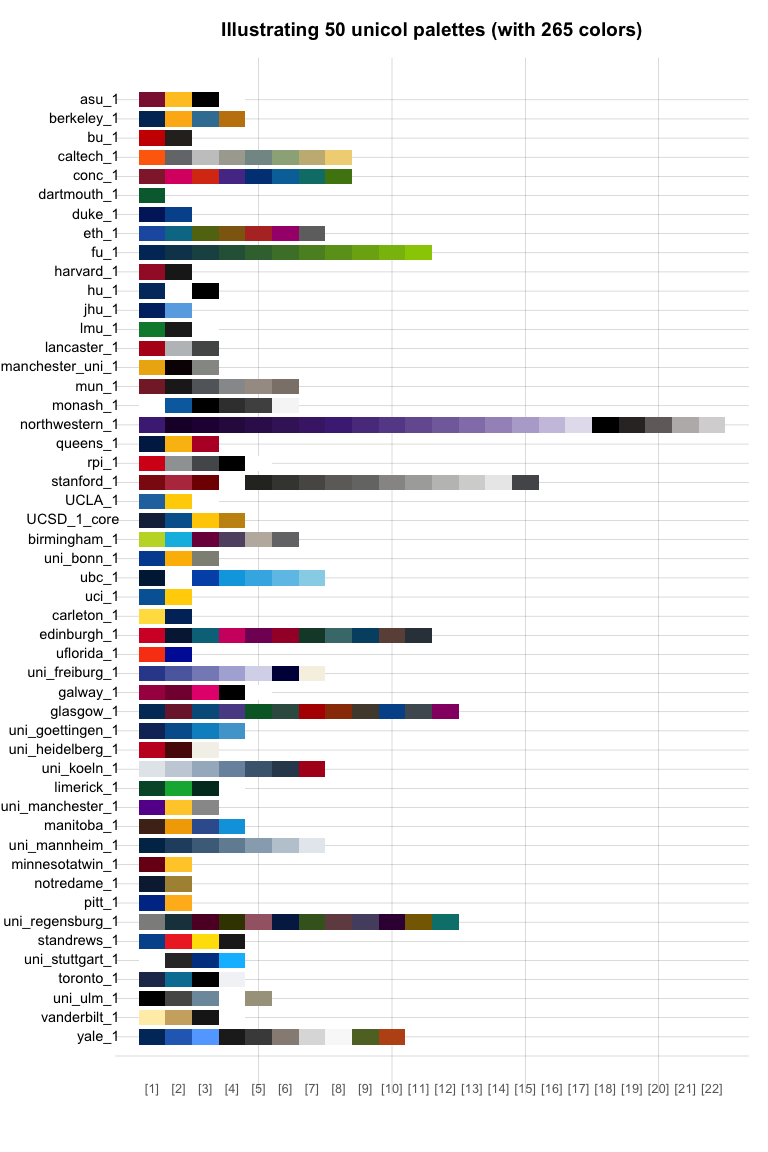
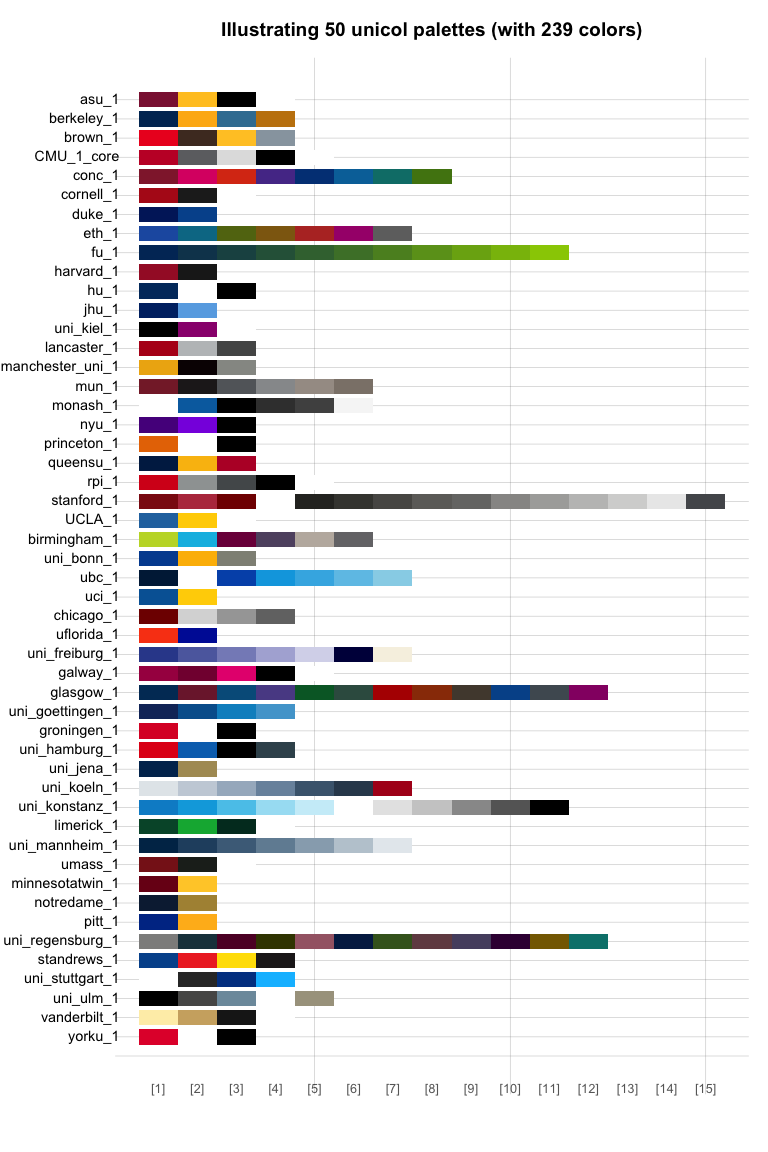
update and increment version

diff --git a/README.md b/README.md
@@ -15,7 +15,7 @@ status](https://www.r-pkg.org/badges/version/unicol)](https://CRAN.R-project.org
 <!-- [![DOI](https://zenodo.org/badge/DOI/10.5281/zenodo.8252106.svg)](https://doi.org/10.5281/zenodo.8252106) -->
 <!-- Release badges end. -->
 
-# unicol 0.1.0.9003 <img src = "man/figures/logo.png" align = "right" alt = "unicol::" width = "165px" alt="" />
+# unicol 0.1.0.9004 <img src = "man/figures/logo.png" align = "right" alt = "unicol::" width = "165px" alt="" />
 
 <!-- unicol pkg logo and link: -->
 <!-- <a href = "https://CRAN.R-project.org/package=unicol"> -->
@@ -79,8 +79,8 @@ library(unikn)   # for color functions
 
 ## Contents
 
-The **unicol** package currently provides **205 color palettes** from
-**88 institutions**.
+The **unicol** package currently provides **206 color palettes** from
+**89 institutions**.
 
 <!-- **Table\ 1** provides an overview of all color palettes:  -->
 
@@ -92,18 +92,18 @@ palettes and institutions.)
 
 ### Examples of color palettes
 
-<!-- The **unicol** package currently contains **205\ color palettes** from **88\ institutions**.  -->
+<!-- The **unicol** package currently contains **206\ color palettes** from **89\ institutions**.  -->
 <!-- Example 1: Random pals (from vignette color_pals.Rmd): -->
 <!-- Show as a table: -->
 <!-- Show as a figure: -->
 
-**Figure 1** illustrates 50 random color palettes (with 265 colors):
+**Figure 1** illustrates 50 random color palettes (with 239 colors):
 
 <div class="figure" style="text-align: center">
 
-<img src="man/figures/README-unicol-pals-example-1-figure-1.png" alt="Figure 1: A sample of 50 unicol palettes (containing 265 colors)." width="90%" />
+<img src="man/figures/README-unicol-pals-example-1-figure-1.png" alt="Figure 1: A sample of 50 unicol palettes (containing 239 colors)." width="90%" />
 <p class="caption">
-Figure 1: A sample of 50 unicol palettes (containing 265 colors).
+Figure 1: A sample of 50 unicol palettes (containing 239 colors).
 </p>
 
 </div>
@@ -315,6 +315,6 @@ creators.
 
 <!-- Footer: -->
 
-\[File `README.Rmd` updated on 2023-08-22.\]
+\[File `README.Rmd` updated on 2023-08-27.\]
 
 <!-- eof. -->

diff --git a/NEWS.md b/NEWS.md
@@ -1,5 +1,5 @@
 
-# unicol 0.1.0.9003
+# unicol 0.1.0.9004
 
 This is the current development version of **unicol** at <https://github.com/hneth/unicol/>. 
 
@@ -16,7 +16,8 @@ Changes since last release:
 
 - New color palettes: 
     - [University of Groningen](https://www.rug.nl): `groningen_1`, `groningen_2`
-    - [University of Lisbon](https://www.ulisboa.pt): `uni_lisbon`  
+    - [University of Lisbon](https://www.ulisboa.pt): `uni_lisbon` 
+    - [Willamette University](https://willamette.edu): `willamette` 
 
 
 <!-- Minor changes: --> 
